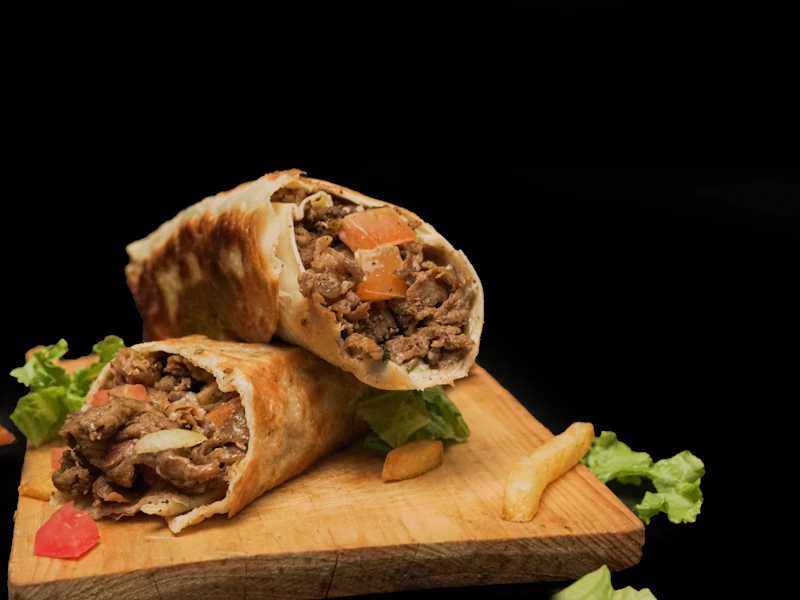
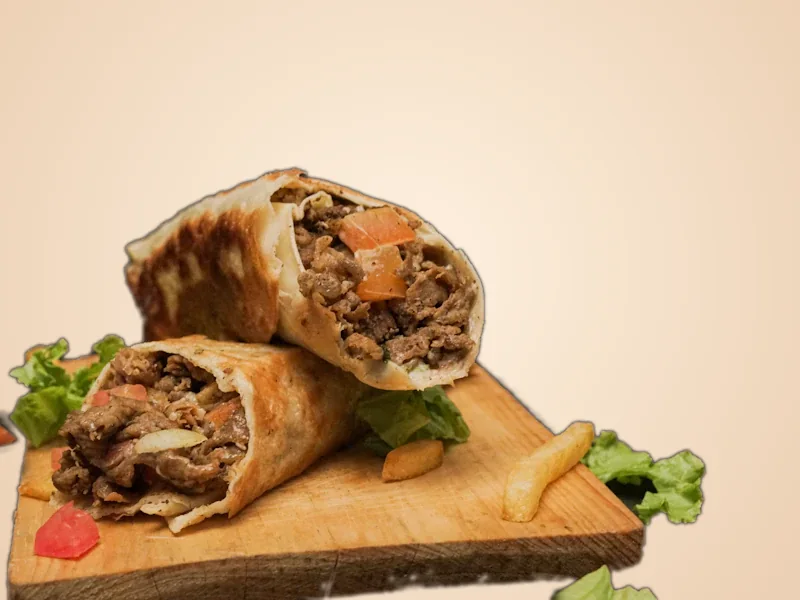
WhatsApp number field, order-ready alert and brighter dish photos
WhatsApp number
- Label it "WhatsApp number (optional)" with a fixed +91 prefix, numeric
  keypad, and "98765 43210" formatting. Pasted numbers like
  "+91 98765-43210" or "098765..." are normalised to 10 digits.
- Validate Indian mobile numbers (10 digits starting 6-9) with an inline
  message; an invalid number stops the order and focuses the field.
- Send it as +91XXXXXXXXXX, within the existing 7-30 character limit.

Order-ready alert
- When the kitchen marks the order Ready: vibrate (Android), play a short
  two-note chime (Web Audio, unlocked by the Place Order tap), reopen the
  tracker if minimised, and set the tab title to "Your order is ready!"
  until the guest comes back to the page.

Dish photos
- Replace the black studio backdrop on Double Egg Double Chicken Katti
  Roll with warm cream; crop Egg + Chicken Katti Roll, Regular French
  Fries, Blue Curacao Mojito and the French Fries category in on the
  food so round thumbnails no longer show dark circles. Noted in
  CREDITS.md (Unsplash License permits edits).

Claude-Session: https://claude.ai/code/session_01RUvgPub6ec5DQrAk21vj2t

diff --git a/src/frontend/CustomerLanding.tsx b/src/frontend/CustomerLanding.tsx
@@ -31,6 +31,35 @@ const storyDepth = (view: StoryView) => STEP_DEPTH[view.step] + (view.cart ? 0.5
 const sameView = (a: StoryView, b: StoryView) => a.step === b.step && a.categoryId === b.categoryId && a.cart === b.cart && (a.detail ?? null) === (b.detail ?? null);
 const isStoryEntry = (value: unknown): value is StoryEntry => !!value && typeof value === "object" && (value as StoryEntry).kbStory === true;
 
+// Indian mobile numbers: 10 digits starting 6-9. Accepts pasted "+91 98765 43210" or "098765...".
+function normaliseIndianMobile(raw: string) {
+  let digits = raw.replace(/\D/g, "");
+  if (digits.length > 10 && digits.startsWith("91")) digits = digits.slice(2);
+  if (digits.length > 10 && digits.startsWith("0")) digits = digits.slice(1);
+  return digits.slice(0, 10);
+}
+const isIndianMobile = (digits: string) => /^[6-9]\d{9}$/.test(digits);
+
+// A short two-note chime, made with Web Audio so no sound file is needed.
+function playReadyChime(context: AudioContext | null) {
+  if (!context) return;
+  try {
+    const start = context.currentTime + 0.02;
+    [[880, 0], [1318.5, 0.18]].forEach(([frequency, offset]) => {
+      const osc = context.createOscillator();
+      const gain = context.createGain();
+      osc.type = "sine";
+      osc.frequency.value = frequency;
+      gain.gain.setValueAtTime(0.0001, start + offset);
+      gain.gain.exponentialRampToValueAtTime(0.35, start + offset + 0.02);
+      gain.gain.exponentialRampToValueAtTime(0.0001, start + offset + 0.6);
+      osc.connect(gain).connect(context.destination);
+      osc.start(start + offset);
+      osc.stop(start + offset + 0.65);
+    });
+  } catch { /* Sound is a bonus; the on-screen status still updates. */ }
+}
+
 function timeGreeting(date = new Date()) {
   const hour = date.getHours();
   if (hour < 12) return "Good morning";
@@ -79,6 +108,11 @@ export function CustomerLanding() {
   });
   const [cartOpen, setCartOpen] = useState(false);
   const [customerPhone, setCustomerPhone] = useState("");
+  const [phoneTouched, setPhoneTouched] = useState(false);
+  const phoneInvalid = customerPhone.length > 0 && !isIndianMobile(customerPhone);
+  // Browsers only allow sound after a tap, so the audio is unlocked when the guest places the order.
+  const audioRef = useRef<AudioContext | null>(null);
+  const lastStatusRef = useRef<string | null>(null);
   const [placingOrder, setPlacingOrder] = useState(false);
   const [checkoutError, setCheckoutError] = useState("");
   const [placedOrder, setPlacedOrder] = useState<{ orderId: number; orderNumber: string; totalAmount?: string; trackingToken: string; status: string } | null>(() => {
@@ -257,6 +291,16 @@ export function CustomerLanding() {
   const placeOrder = async (event: React.FormEvent<HTMLFormElement>) => {
     event.preventDefault();
     if (placingOrder || !cartCount) return;
+    if (phoneInvalid) {
+      setPhoneTouched(true);
+      document.getElementById("customer-whatsapp")?.focus();
+      return;
+    }
+    try {
+      const AudioCtor = window.AudioContext ?? (window as unknown as { webkitAudioContext?: typeof AudioContext }).webkitAudioContext;
+      if (AudioCtor && !audioRef.current) audioRef.current = new AudioCtor();
+      void audioRef.current?.resume();
+    } catch { /* No Web Audio: the alert falls back to vibration and the title. */ }
     setPlacingOrder(true);
     setCheckoutError("");
     try {
@@ -265,7 +309,7 @@ export function CustomerLanding() {
         headers: { "Content-Type": "application/json" },
         credentials: "include",
         body: JSON.stringify({
-          customerPhone: customerPhone.trim() || undefined,
+          customerPhone: customerPhone ? "+91" + customerPhone : undefined,
           source: "qr",
           paymentMethod: "cash",
           items: Object.entries(cart).filter(([, quantity]) => quantity > 0).map(([menuItemId, quantity]) => ({ menuItemId: Number(menuItemId), quantity }))
@@ -349,6 +393,23 @@ export function CustomerLanding() {
     window.addEventListener("popstate", onPop);
     return () => window.removeEventListener("popstate", onPop);
   }, []);
+
+  // Alert the guest when the kitchen marks the order ready: vibration, a chime, and the tab title.
+  useEffect(() => {
+    const status = placedOrder?.status ?? null;
+    const previous = lastStatusRef.current;
+    lastStatusRef.current = status;
+    if (status !== "ready" || previous === null || previous === "ready") return;
+    try { navigator.vibrate?.([220, 120, 220, 120, 420]); } catch { /* Not supported (e.g. iPhone). */ }
+    playReadyChime(audioRef.current);
+    setTrackerMinimized(false);
+    const originalTitle = document.title;
+    document.title = "🔔 Your order is ready!";
+    const restore = () => { if (!document.hidden) { document.title = originalTitle; document.removeEventListener("visibilitychange", restore); } };
+    const timer = window.setTimeout(restore, 8000);
+    document.addEventListener("visibilitychange", restore);
+    return () => { window.clearTimeout(timer); document.removeEventListener("visibilitychange", restore); document.title = originalTitle; };
+  }, [placedOrder?.status]);
 
   useEffect(() => {
     const root = stageRef.current;
@@ -560,7 +621,12 @@ export function CustomerLanding() {
         <div className="customer-cart-total"><span>Subtotal</span><strong>{money(total)}</strong></div>
         <form className="customer-checkout-form" onSubmit={placeOrder}>
           <h4>Contact details</h4>
-          <label>Phone number (optional)<input type="tel" value={customerPhone} onChange={e => setCustomerPhone(e.target.value)} autoComplete="tel" minLength={7} maxLength={30} placeholder="For WhatsApp order PDF" /></label>
+          <label htmlFor="customer-whatsapp">WhatsApp number <span className="customer-optional">(optional)</span></label>
+          <div className={"customer-phone-field" + (phoneTouched && phoneInvalid ? " has-error" : "")}>
+            <span className="customer-phone-prefix" aria-hidden="true">🇮🇳 +91</span>
+            <input id="customer-whatsapp" type="tel" inputMode="numeric" autoComplete="tel-national" value={customerPhone.replace(/^(\d{5})(\d+)/, "$1 $2")} onChange={e => setCustomerPhone(normaliseIndianMobile(e.target.value))} onBlur={() => setPhoneTouched(true)} placeholder="98765 43210" aria-invalid={phoneTouched && phoneInvalid} aria-describedby="customer-whatsapp-help" />
+          </div>
+          <p id="customer-whatsapp-help" className={"customer-phone-help" + (phoneTouched && phoneInvalid ? " is-error" : "")}>{phoneTouched && phoneInvalid ? "Enter a 10-digit mobile number starting with 6, 7, 8 or 9." : "We’ll send your order PDF here on WhatsApp."}</p>
           <div className="customer-cod-option"><span className="customer-cod-radio">✓</span><span><strong>Cash on Delivery</strong><small>Pay when your order arrives</small></span><span className="customer-cod-tag">COD</span></div>
           {checkoutError && <p className="customer-checkout-error" role="alert">{checkoutError}</p>}
           <button className="customer-place-order" type="submit" disabled={placingOrder || cartCount === 0}>{placingOrder ? "Placing order…" : "Place Order · " + money(total)}</button>

diff --git a/src/frontend/styles.css b/src/frontend/styles.css
@@ -7218,3 +7218,42 @@ button {
   .customer-story-page .customer-story-stage .customer-story-categories.story-categories-visible .customer-category-bubble > img,
   .customer-story-page .customer-story-stage .customer-story-categories.story-categories-visible .customer-category-bubble > .category-bubble-art { width: 50px !important; height: 50px !important; }
 }
+
+/* ============ WhatsApp number field with +91 prefix ============ */
+.customer-checkout-form > label[for="customer-whatsapp"] { display: block; margin-bottom: 6px; }
+.customer-optional { color: #9b7d6b; font-weight: 500; }
+.customer-phone-field {
+  display: flex;
+  align-items: stretch;
+  border: 1px solid #e5d2c3;
+  border-radius: 10px;
+  background: #fffdf9;
+  overflow: hidden;
+  transition: border-color .15s ease, box-shadow .15s ease;
+}
+.customer-phone-field:focus-within { border-color: #b86d3c; box-shadow: 0 0 0 3px rgba(184, 109, 60, .12); }
+.customer-phone-field.has-error { border-color: #c2412b; box-shadow: 0 0 0 3px rgba(194, 65, 43, .12); }
+.customer-phone-prefix {
+  display: flex;
+  align-items: center;
+  gap: 5px;
+  padding: 0 10px 0 12px;
+  border-right: 1px solid #efe0d3;
+  background: #fbf2e9;
+  color: #5b3524;
+  font-size: 14px;
+  font-weight: 750;
+  white-space: nowrap;
+}
+.customer-checkout-form .customer-phone-field input {
+  flex: 1 1 auto;
+  min-width: 0;
+  border: 0 !important;
+  border-radius: 0 !important;
+  box-shadow: none !important;
+  background: transparent !important;
+  letter-spacing: .03em;
+  font-variant-numeric: tabular-nums;
+}
+.customer-phone-help { margin: 6px 0 12px; color: #8a6a58; font-size: 12px; line-height: 1.4; }
+.customer-phone-help.is-error { color: #b2391f; font-weight: 650; }

diff --git a/public/assets/menu/CREDITS.md b/public/assets/menu/CREDITS.md
@@ -29,3 +29,5 @@ Photos from [Unsplash](https://unsplash.com), used under the [Unsplash License](
 - `roll-combo.webp` — CALEBE SOUSA ([photo](https://unsplash.com/photos/VmTsKvTc6Yk))
 - `momos-combo.webp` — Abhishek Sanwa Limbu ([photo](https://unsplash.com/photos/LR559Dcst70))
 - `loaded-fries-combo.webp` — Jay Gajjar ([photo](https://unsplash.com/photos/UA6Z7ewijG0))
+
+Edits: `double-egg-double-chicken-katti-roll.webp` has its black studio backdrop replaced with a warm cream one; `egg-chicken-katti-roll.webp`, `regular-french-fries.webp`, `blue-curacao-mojito.webp` and `categories/french-fries.webp` are cropped in on the food so round thumbnails show the dish rather than a dark background.
